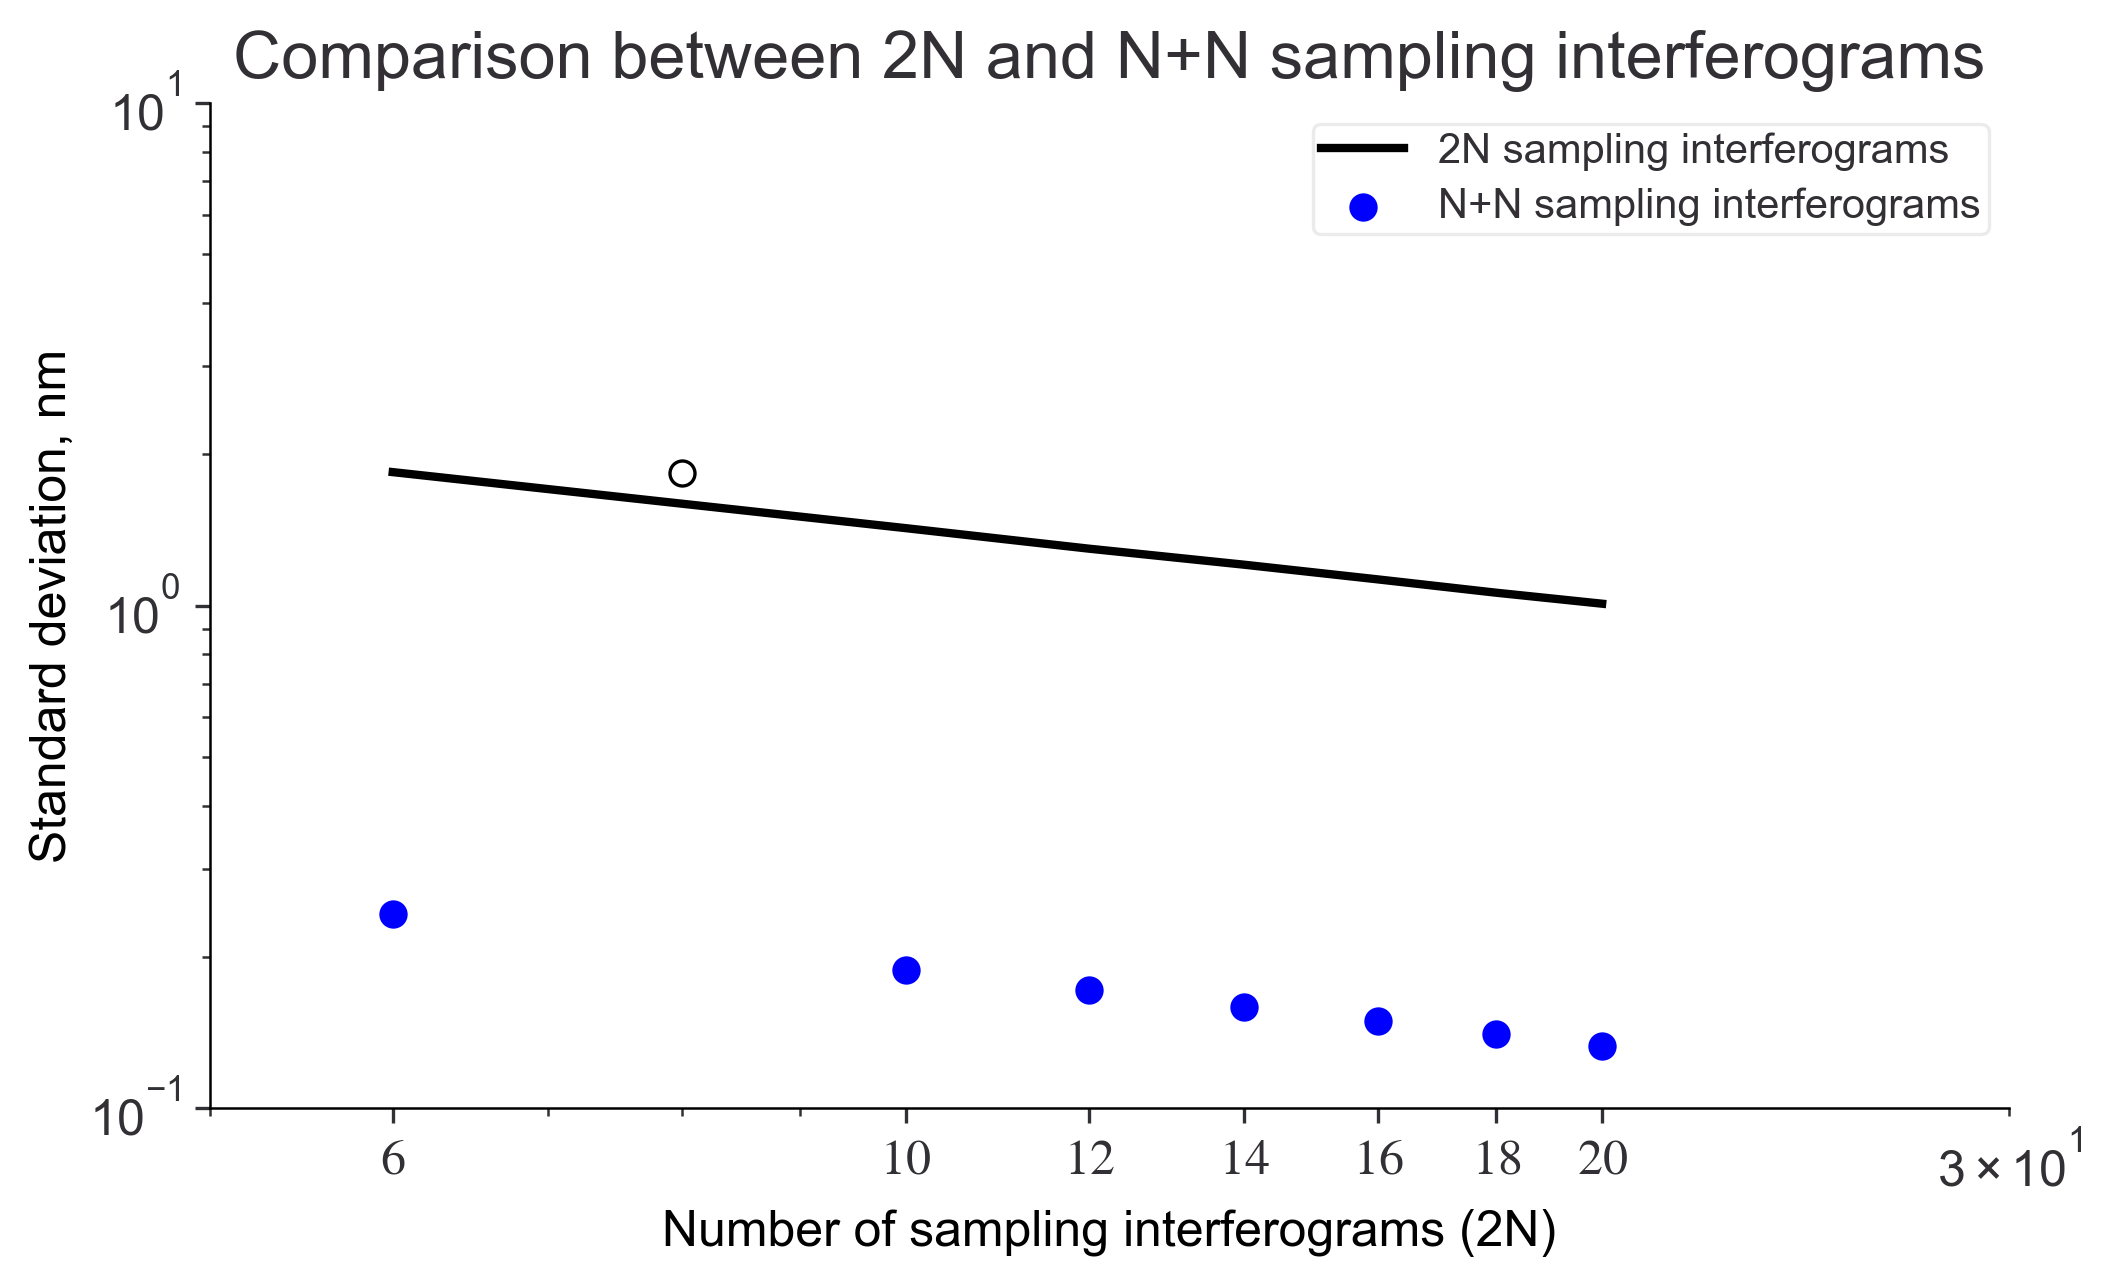
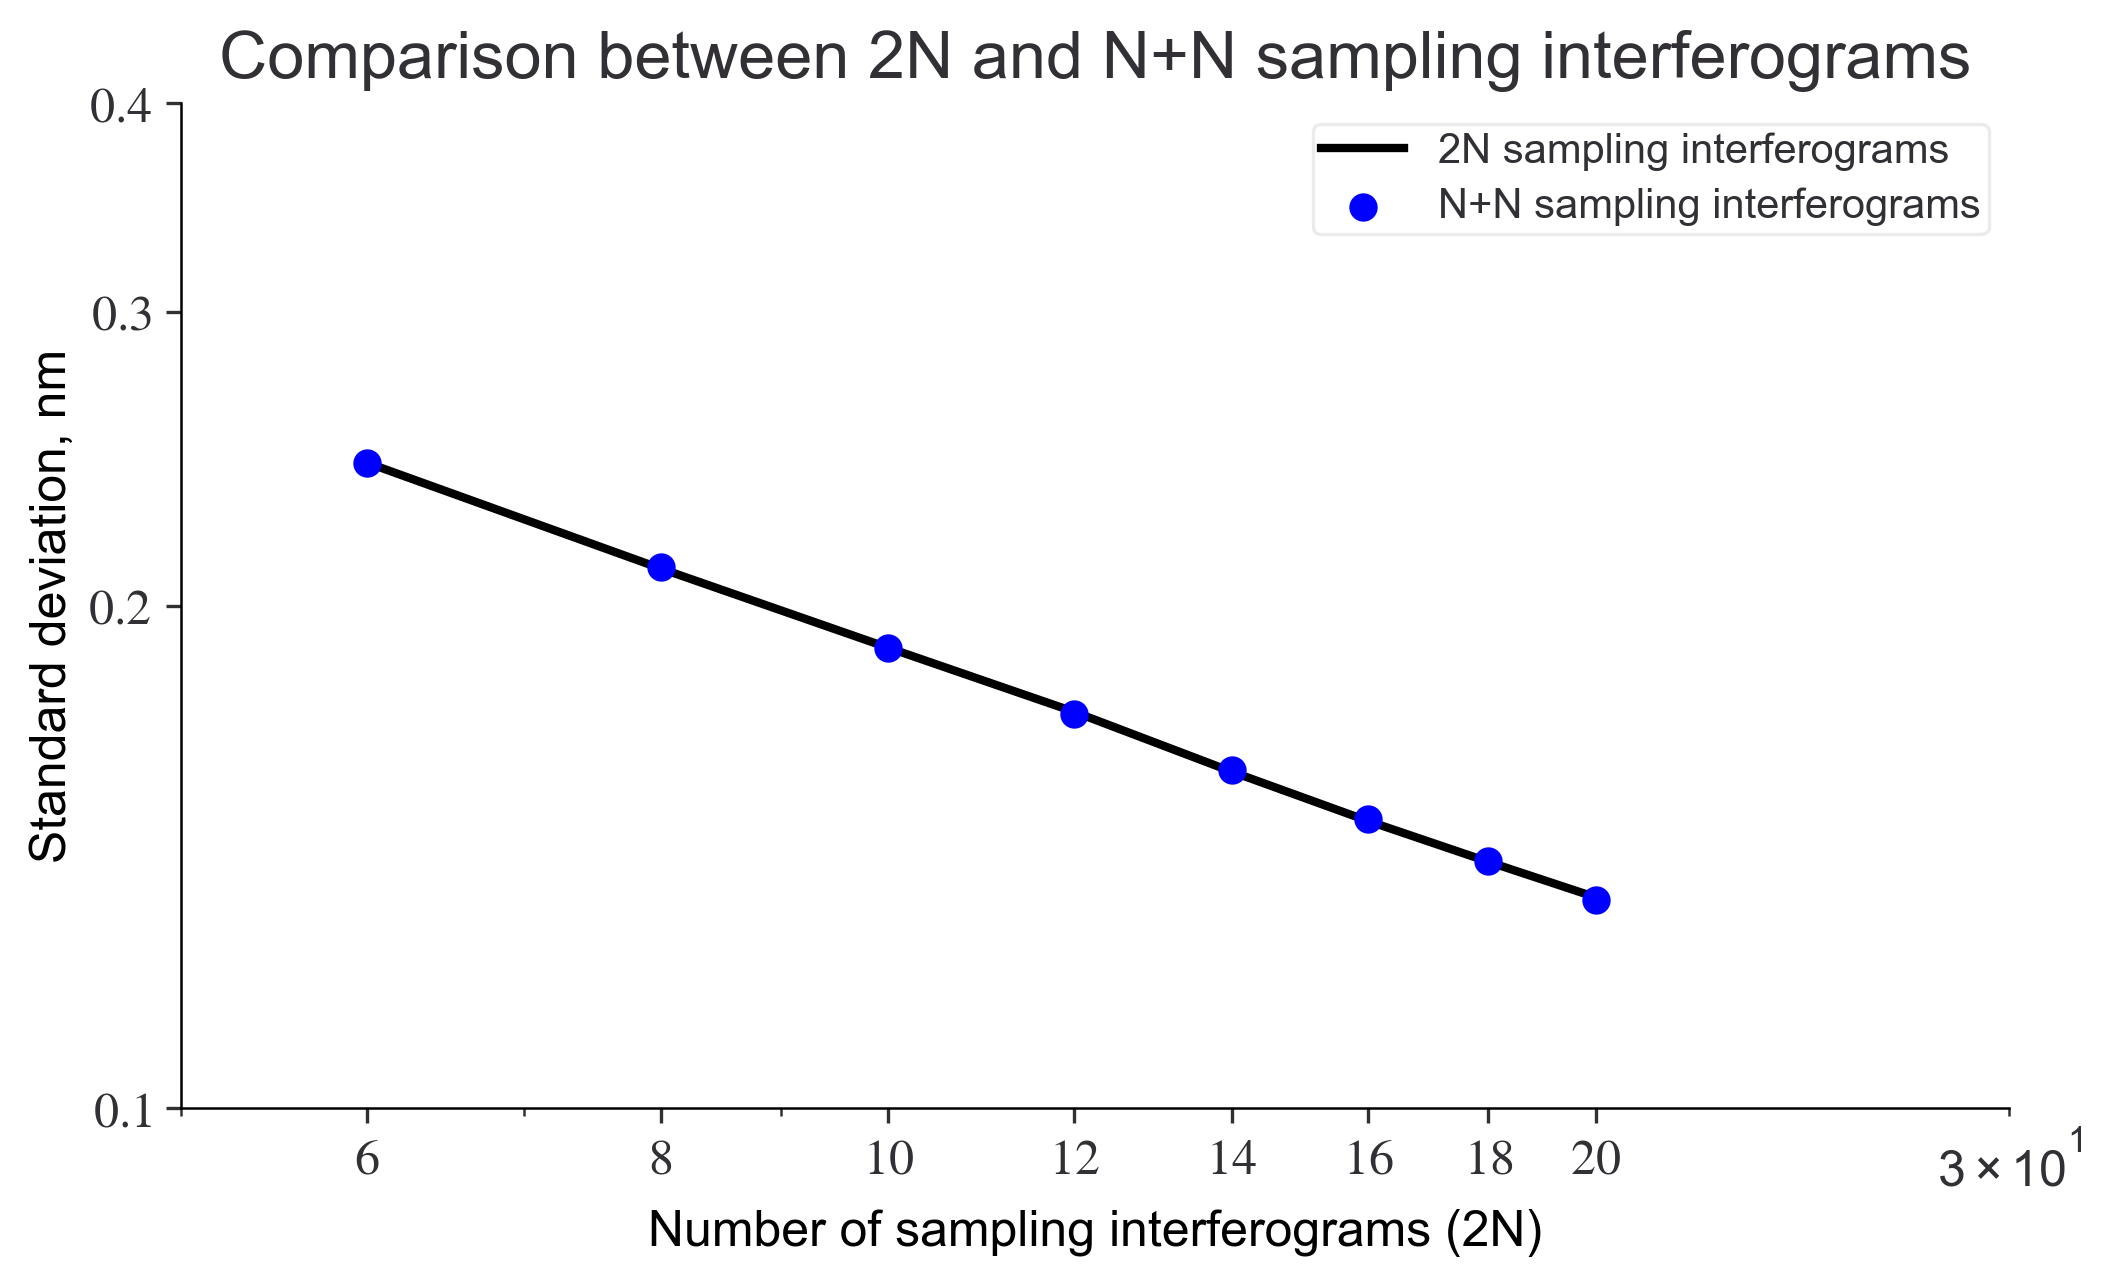
function of PSI

diff --git a/Shot_Noise_NM-Diagram.py b/Shot_Noise_NM-Diagram.py
@@ -39,13 +39,13 @@ for N in np.array([3,4,5,6,8]):
 
 # %% comparison between 2N sampling points and N+N sampling points
 
-N = np.append(np.array([3]), np.arange(5, 11, 1))
+N = np.append(np.array([3,4]), np.arange(5, 11, 1))
 std_NN = np.array([])
 std_2N = np.array([])
 for i in N:
     _, std_nn = N_M_step(step=i, over_sample_points=i, position_noise=False, shot_noise=True)
     std_NN = np.append(std_NN, np.nanmean(std_nn))
-    _, std_2n = n_step(step=i * 2)
+    _, std_2n = n_step(step=i * 2, position_noise=False, shot_noise=True)
     std_2N = np.append(std_2N, np.nanmean(std_2n))
 
 plt.style.use('scientific')
@@ -53,14 +53,14 @@ plt.figure()
 factor = 530 / (4 * np.pi)
 plt.loglog(N * 2, std_2N, 'k-', label='2N sampling interferograms', zorder=1)
 plt.scatter(N * 2, std_NN, color='blue', label='N+N sampling interferograms', edgecolors='blue', zorder=2)
-plt.scatter(np.array([8]), np.array([np.sqrt(2 / 8) * factor * 5 * np.pi / 180]), color='white', marker='o',
-            edgecolors='k', zorder=2)
 
 plt.xlabel('Number of sampling interferograms (2N)')
 plt.ylabel('Standard deviation, nm')
 
-plt.xticks([6, 10, 12, 14, 16, 18, 20], [r'$6$', r'$10$', r'$12$', r'$14$', r'$16$', r'$18$', r'$20$'])
+plt.xticks([6,8, 10, 12, 14, 16, 18, 20], [r'$6$',r'$8$', r'$10$', r'$12$', r'$14$', r'$16$', r'$18$', r'$20$'])
 plt.xlim(5, 30)
+plt.ylim(0.1,0.4)
+plt.yticks([0.1,0.2,0.3,0.4],[r'$0.1$', r'$0.2$', r'$0.3$', r'$0.4$'])
 plt.legend(loc='upper right')
 plt.title('Comparison between 2N and N+N sampling interferograms')
 plt.tight_layout()
@@ -99,4 +99,70 @@ plt.tight_layout()
 plt.savefig('Images/Positioning Noise/STD/comparison between different sampling frequencies', bbox_inches='tight')
 plt.show(block=1)
 '''
+
+# %% comparison between different sampling frequencies # create 8+8 9+7 10+6...16+0 step
+
+All_step = 16
+x = np.arange(0, All_step / 2 + 1, 1)
+y = np.array([])
+yerr = np.array([])
+for i in np.arange(All_step / 2, All_step + 1, 1):
+    i = int(i)
+    std = N_M_theoretical_std(step=i, over_sample_points=All_step - i,position_noise=False,shot_noise=True)
+    y = np.append(y, np.nanmean(std))
+    yerr = np.append(yerr, np.nanmax(std) - np.nanmean(std))
+
+yerr[0] = np.nan
+yerr[-1] = np.nan
+plt.style.use('scientific')
+plt.figure()
+plt.errorbar(x, y, yerr, ecolor='k', elinewidth=1, marker='s', mfc='k', mec='k', mew=1, ms=5, alpha=1,
+             capsize=5, capthick=3, linestyle="none", label="Observation")
+
+p = np.polyfit(x, y, deg=4)
+plt.plot(np.linspace(0, All_step / 2, 100), np.polyval(p, np.linspace(0, All_step / 2, 100)), 'grey')
+
+plt.xlabel('Sampling methods')
+plt.xticks([0, 1, 2, 3, 4, 5, 6, 7, 8], ['8+8', '9+7', '10+6', '11+5', '12+4', '13+3', '14+2', '15+1', '16+0'],
+           rotation=45)
+plt.ylabel('Standard deviation, nm')
+plt.title('Comparison among different sampling frequencies')
+plt.tight_layout()
+plt.savefig('Images/Shot Noise/comparison between different sampling frequencies', bbox_inches='tight')
+plt.show(block=1)
+# %% comparison between (N+1/2N) sampling und N+1/2N sampling interferograms
+import matplotlib.pyplot as plt
+from PSI_algorithms.N_plus_M_Step import *
+from PSI_algorithms.N_Step import *
+from PSI_algorithms.Data_Process import *
+
+std_NN = np.array([])
+std_NM = np.array([])
+x=np.arange(6,20,2)
+x=(x+x/2).astype(int)
+for N in np.arange(6, 20, 2):
+    _, std = n_step(step=N + N / 2,position_noise=False,shot_noise=True)
+    std_NN = np.append(std_NN, np.nanmean(std))
+    _, std = N_M_step(step=N, over_sample_points=int(N / 2),position_noise=False,shot_noise=True)
+    std_NM = np.append(std_NM, np.nanmean(std))
+
+plt.style.use('scientific')
+plt.figure()
+factor = 530 / (4 * np.pi)
+plt.loglog(x, std_NN, 'k', label='N sampling interferograms',marker='o',markeredgecolor='k')
+plt.loglog(x, std_NM, 'r', label='N+M sampling interferograms',marker='o',markeredgecolor='r')
+
+plt.xlabel('Number of sampling interferograms')
+plt.ylabel('Standard deviation, nm')
+
+plt.xticks([9, 15, 20, 30], [r'$9$', r'$15$','', r'$30$'])
+plt.yticks([0.04,0.05,0.06,0.1,0.2,0.3],['',r'$0.05$','',r'$0.1$',r'$0.2$',''])
+plt.xlim(8, 30)
+plt.ylim(0.04,0.3)
+plt.legend(loc='upper right')
+plt.title('comparison between N und N+M sampling interferograms')
+plt.tight_layout()
+plt.savefig('Images/Shot Noise/comparison sampling sampling interferograms',
+            bbox_inches='tight')
+plt.show(block=1)
 

diff --git a/ppt_diagram.py b/ppt_diagram.py
@@ -111,7 +111,7 @@ x = np.linspace(0, 720, 720)
 y = np.linspace(0, 720, 720)
 X, Y = np.meshgrid(x, y)
 z = form
-ax.plot_surface(X, Y, z, cmap='rainbow')
+p=ax.plot_surface(X, Y, z, cmap='rainbow')
 ax.set_zlim(-10,10)
 ax.set_xlabel(r'X,$\mu$m',fontsize=13)
 ax.set_ylabel(r'Y,$\mu$m',fontsize=13)
@@ -120,9 +120,13 @@ ax.set_xticks([0,180,360,540,720],[0,464/4,464/2,464/4*3,464],fontsize=13)
 ax.set_yticks([0,180,360,540,720],[0,464/4,464/2,464/4*3,464],fontsize=13)
 ax.set_zticks([-10,-5,0,5,10],fontsize=13)
 ax.grid(False)
+
+position=fig.add_axes([0.15,0.35,0.015,0.3])
+fig.colorbar(p,fraction=0.03,cax=position)
 ax.w_xaxis.set_pane_color((1.0, 1.0, 1.0, 1.0))
 ax.w_yaxis.set_pane_color((1.0, 1.0, 1.0, 1.0))
 ax.w_zaxis.set_pane_color((1.0, 1.0, 1.0, 1.0))
+ax.view_init (elev=22.5, azim=-45)
 plt.tight_layout()
 
 plt.savefig('Images/ppt-picture/shot_noise', bbox_inches='tight')

diff --git a/Test.py b/Test.py
@@ -17,8 +17,8 @@ for theta in np.linspace(0, np.pi, 80):
         (-1.6647 * (I[1] - I[2] - I[5] + I[6])) / (-(I[0] + I[3] + I[4] + I[7]) + (I[1] + I[2] + I[5] + I[6]))))
 '''
 
+'''
 #%% test halb number equal 0
-
 for theta in np.linspace(0,np.pi*2,1000):
 
     for N in np.arange(4,100,2):
@@ -27,3 +27,7 @@ for theta in np.linspace(0,np.pi*2,1000):
             all+=np.cos((theta+2*np.pi*(n-1)/N)*4)
         if not np.isclose(all,0,atol=1.e-5):
             print('error:',N)
+            
+'''
+
+

diff --git a/N+M-Step-Diagram.py b/N+M-Step-Diagram.py
@@ -65,7 +65,7 @@ plt.savefig('Images/Positioning Noise/STD/comparison between 2N sampling points 
             bbox_inches='tight')
 plt.show(block=1)
 
-# %% comparison between different sampling frequencies # create 6+6 7+5 8+4...12+0 step
+# %% comparison between different sampling frequencies # create 8+8 9+7 10+6...16+0 step
 All_step = 16
 x = np.arange(0, All_step / 2 + 1, 1)
 y = np.array([])
